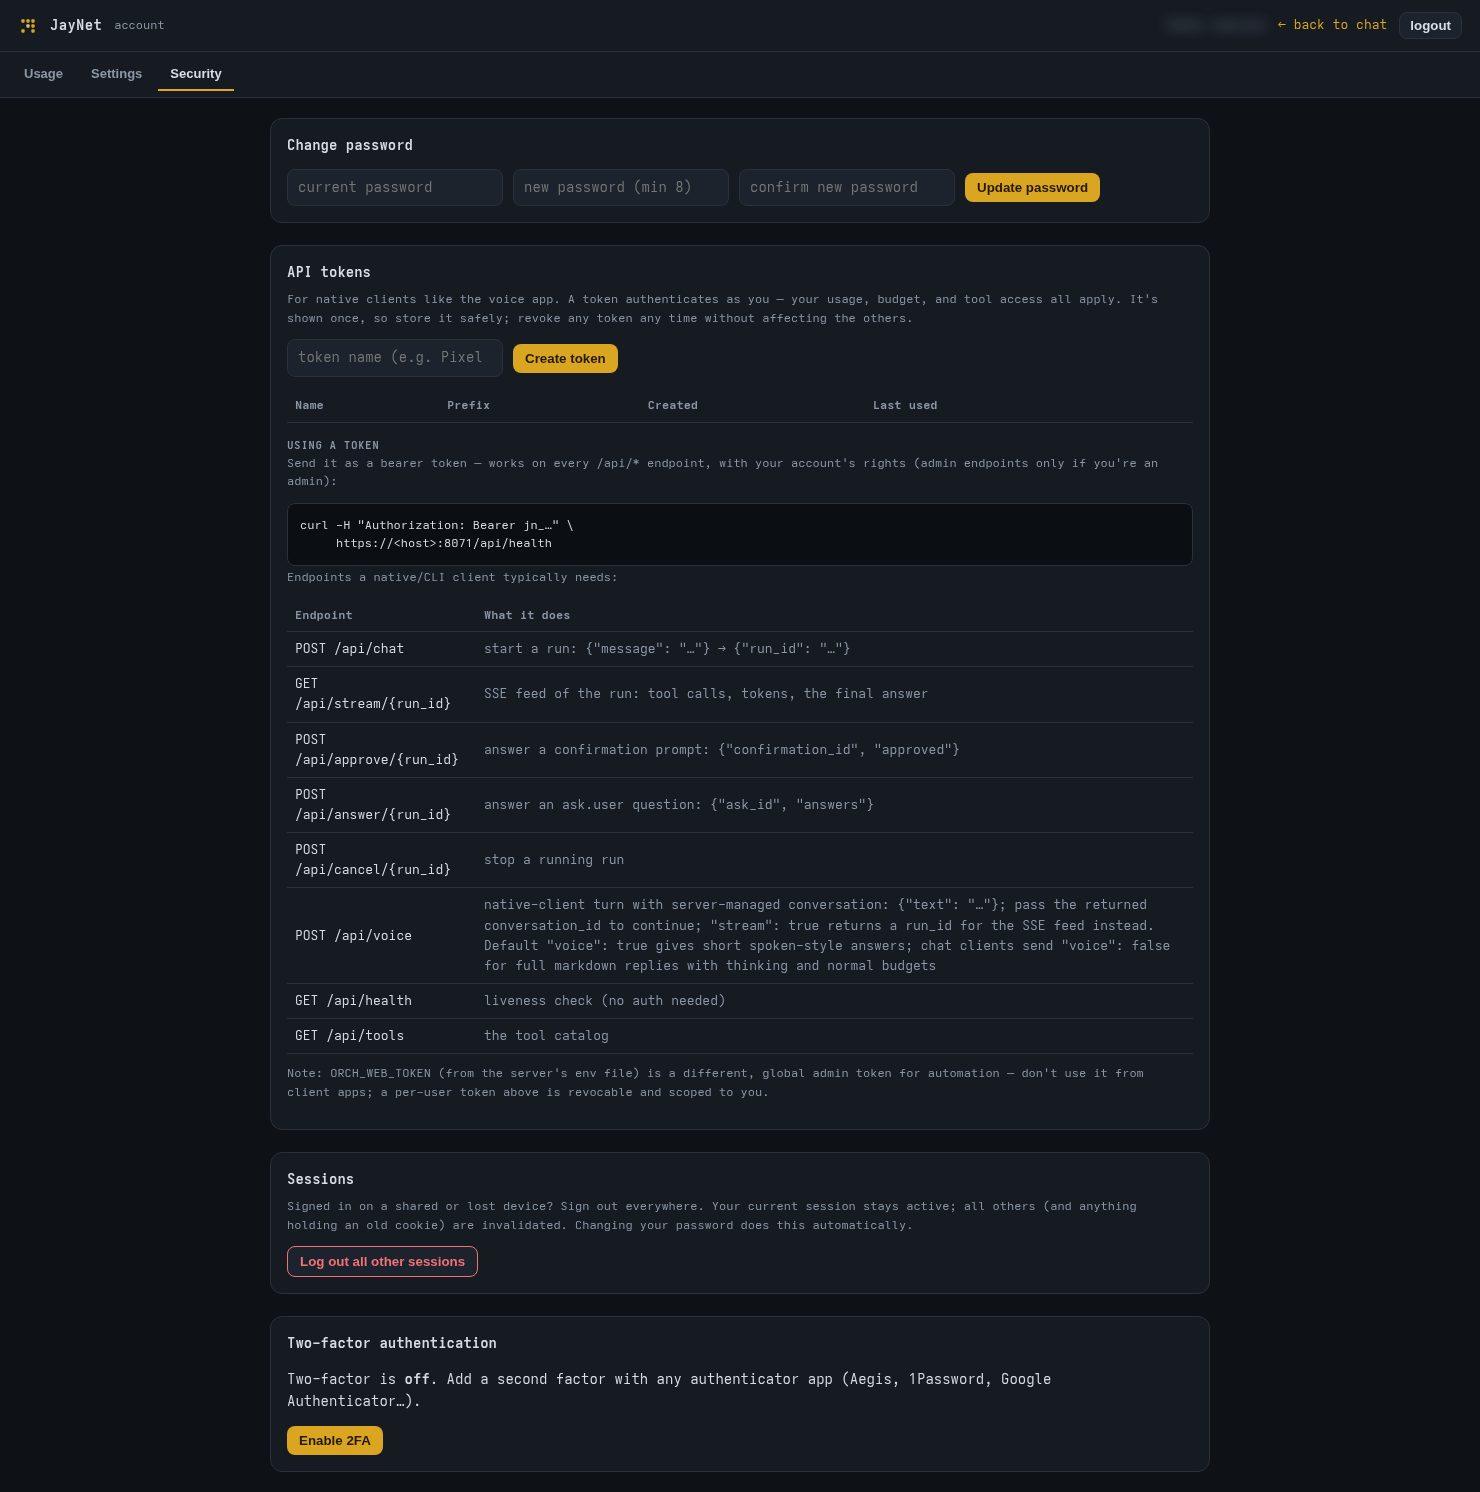
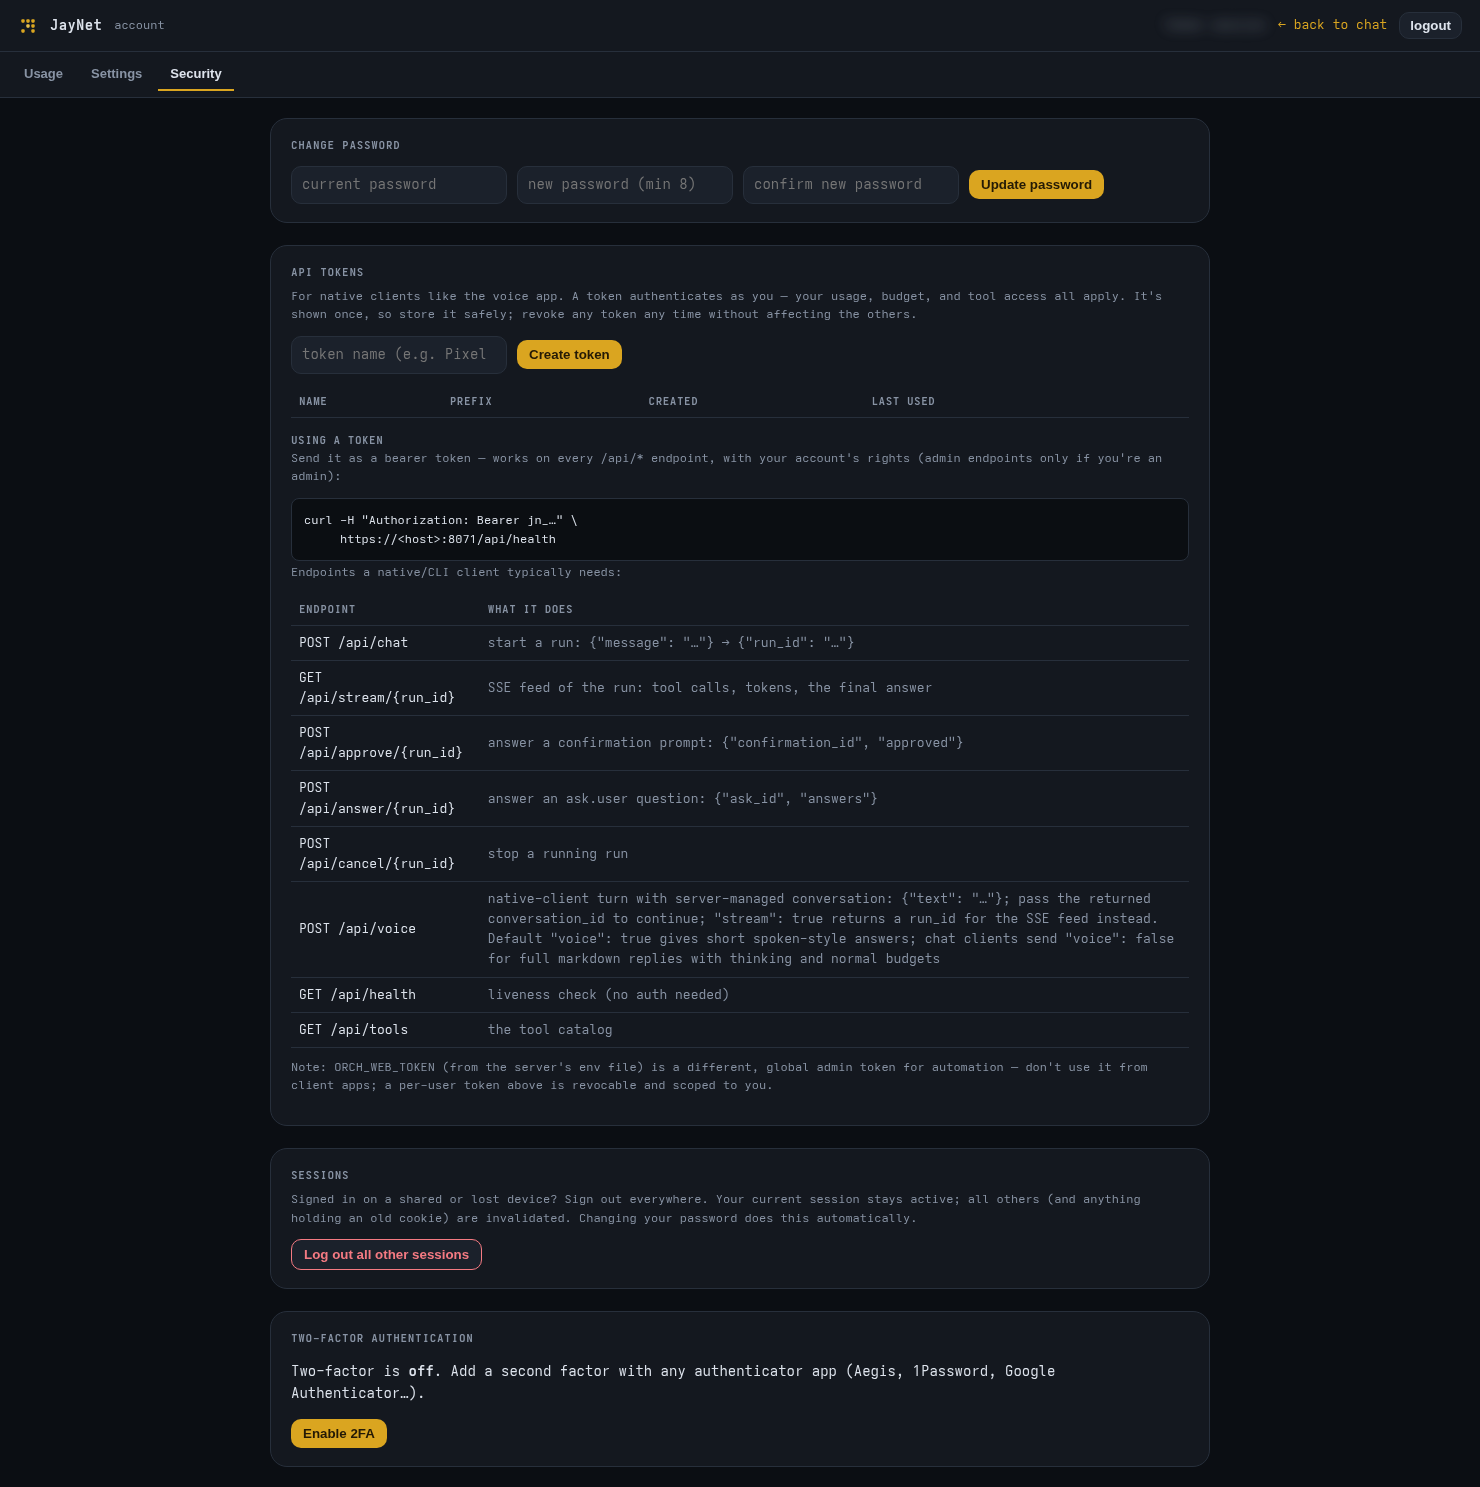
docs: refresh screenshot set on the new design + eval cancel/stats docs
Full sweep re-taken against live (v32 CSS): login, chat, all admin tabs
incl. eval sub-views, all account tabs. chat-run.png re-taken as a fresh
single-turn run (blurred sidebar, crisp log) and chat-hero.png re-cropped.
docs/admin.md documents the eval Cancel and the Statistics brain dropdown;
CHANGELOG gains an Unreleased section for the eval/design/lifespan batch.

diff --git a/CHANGELOG.md b/CHANGELOG.md
@@ -3,6 +3,29 @@
 Breaking changes and release notes. Versions are git tags; the stable API
 contract lives in `docs/api.md`, upgrade procedure in `docs/upgrading.md`.
 
+## Unreleased
+
+- **Eval suites and benchmarks can be cancelled** (Admin → Eval): a Cancel
+  button / `POST /api/admin/evals/cancel` stops the run after the case in
+  flight finishes — later cases are skipped and the summary is marked
+  cancelled.
+- **Benchmark reps no longer wobble the statistics.** Eval results recorded
+  under a benchmark variant are flagged, and the Statistics view (KPIs,
+  trend, flakiness, per-case drilldown) counts live runs only by default; a
+  new brain dropdown scopes every statistic to one variant label. Results
+  recorded before this change stay in the default view.
+- **Design refresh across the console.** Tool-call state moved into status
+  dots with a gold running band; the composer is a circular rail with a
+  filled gold send (red while running); nerd mode gets a readable 118ch
+  measure and a shared glyph gutter; the ctx meter is a fill bar; the admin
+  coral was demoted to an accent stripe + ADMIN pill, with status pills
+  carrying state dots; account/admin share the app's tokens, micro-label
+  headers and tabular numerals.
+- **FastAPI startup/shutdown hooks migrated to the lifespan API** — no
+  behavior change, deprecation warnings gone.
+- **`CONTEXT.md`** at the repo root: a code-facing glossary for AI-assisted
+  dev sessions (term → module map), complementing `docs/glossary.md`.
+
 ## 0.9.4 — 2026-08-12
 
 - **`JAYNET_LLAMA` indirection removed.** It existed only to locate a GPU

diff --git a/docs/admin.md b/docs/admin.md
@@ -143,9 +143,15 @@ The tab has four sub-views:
 
 - **Cases** — the case list with each one's latest pass/score, the run bar
   (run the selected case or all cases carrying a tag), and the results table.
+  A running suite/benchmark can be **cancelled**: the case in flight finishes
+  and is recorded, every later case is skipped, and the summary is marked
+  cancelled.
 - **Statistics** — KPI cards, a daily pass-rate/score trend graph, per-case
   flakiness, and an A/B period comparison. Results record the brain alias, so
-  a regression can be spotted per model.
+  a regression can be spotted per model. The default view counts live runs
+  only — benchmark reps are flagged and never move these numbers; the brain
+  dropdown scopes every statistic (and the per-case trend drilldown) to one
+  variant label.
 - **Proposals** — the gated improvement inbox (below).
 - **Benchmark** — head-to-head model/parameter shootouts. A **variant** is a
   label + model alias (blank = the current brain) + sampler overrides + a rep
